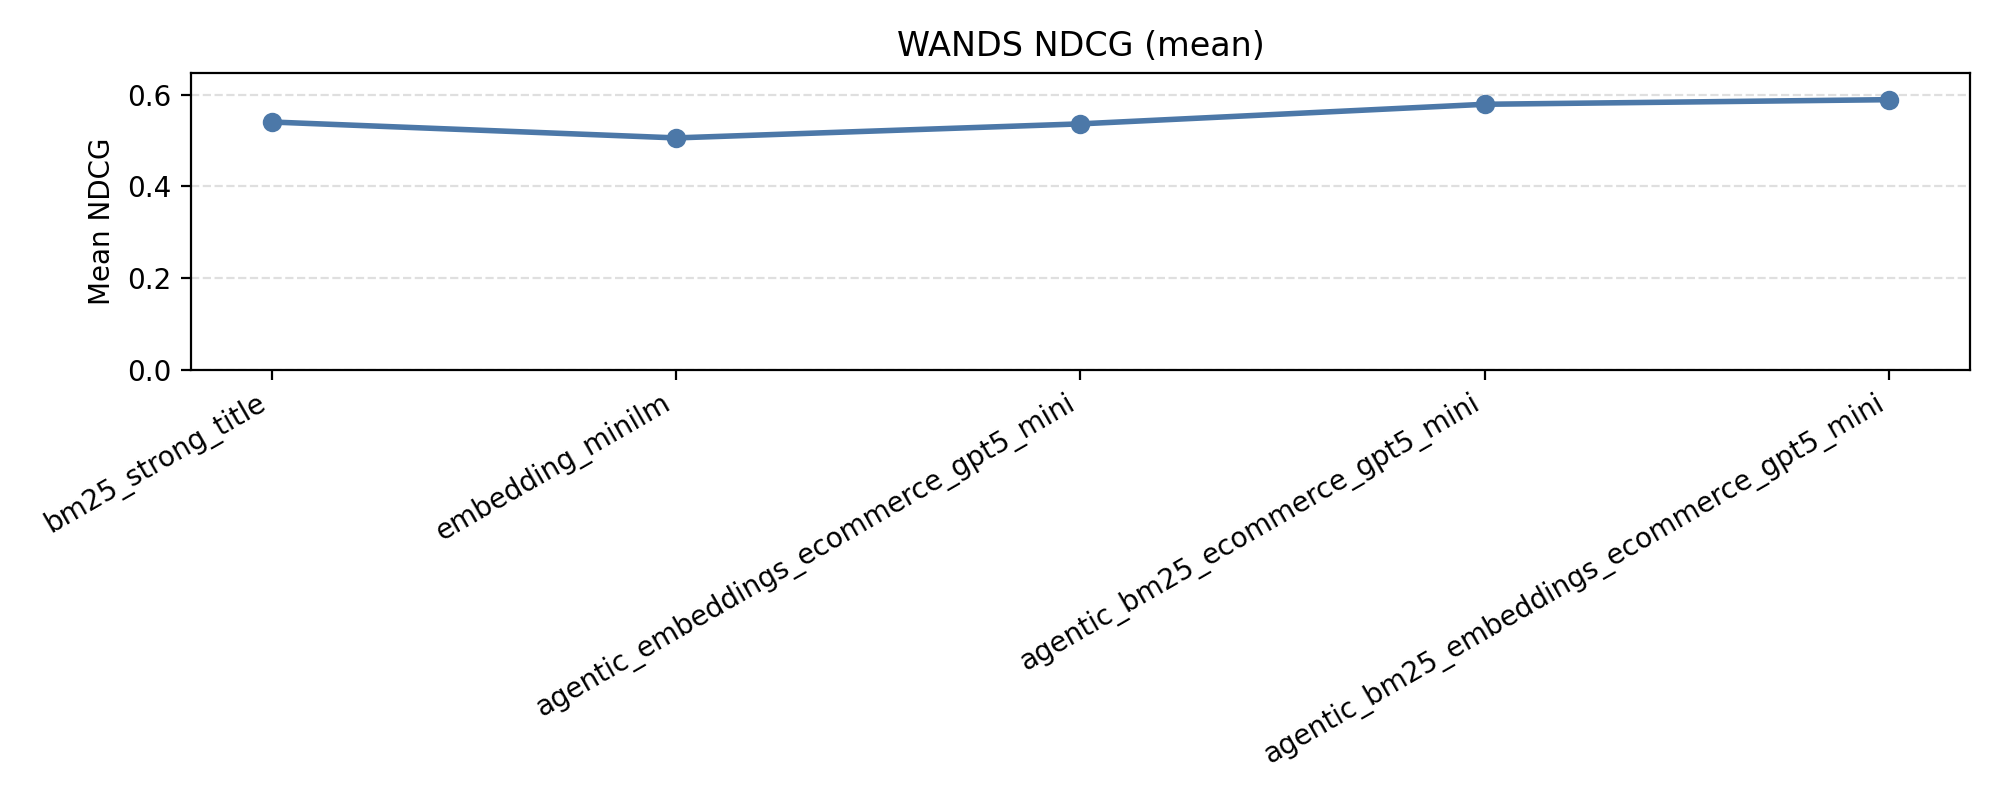
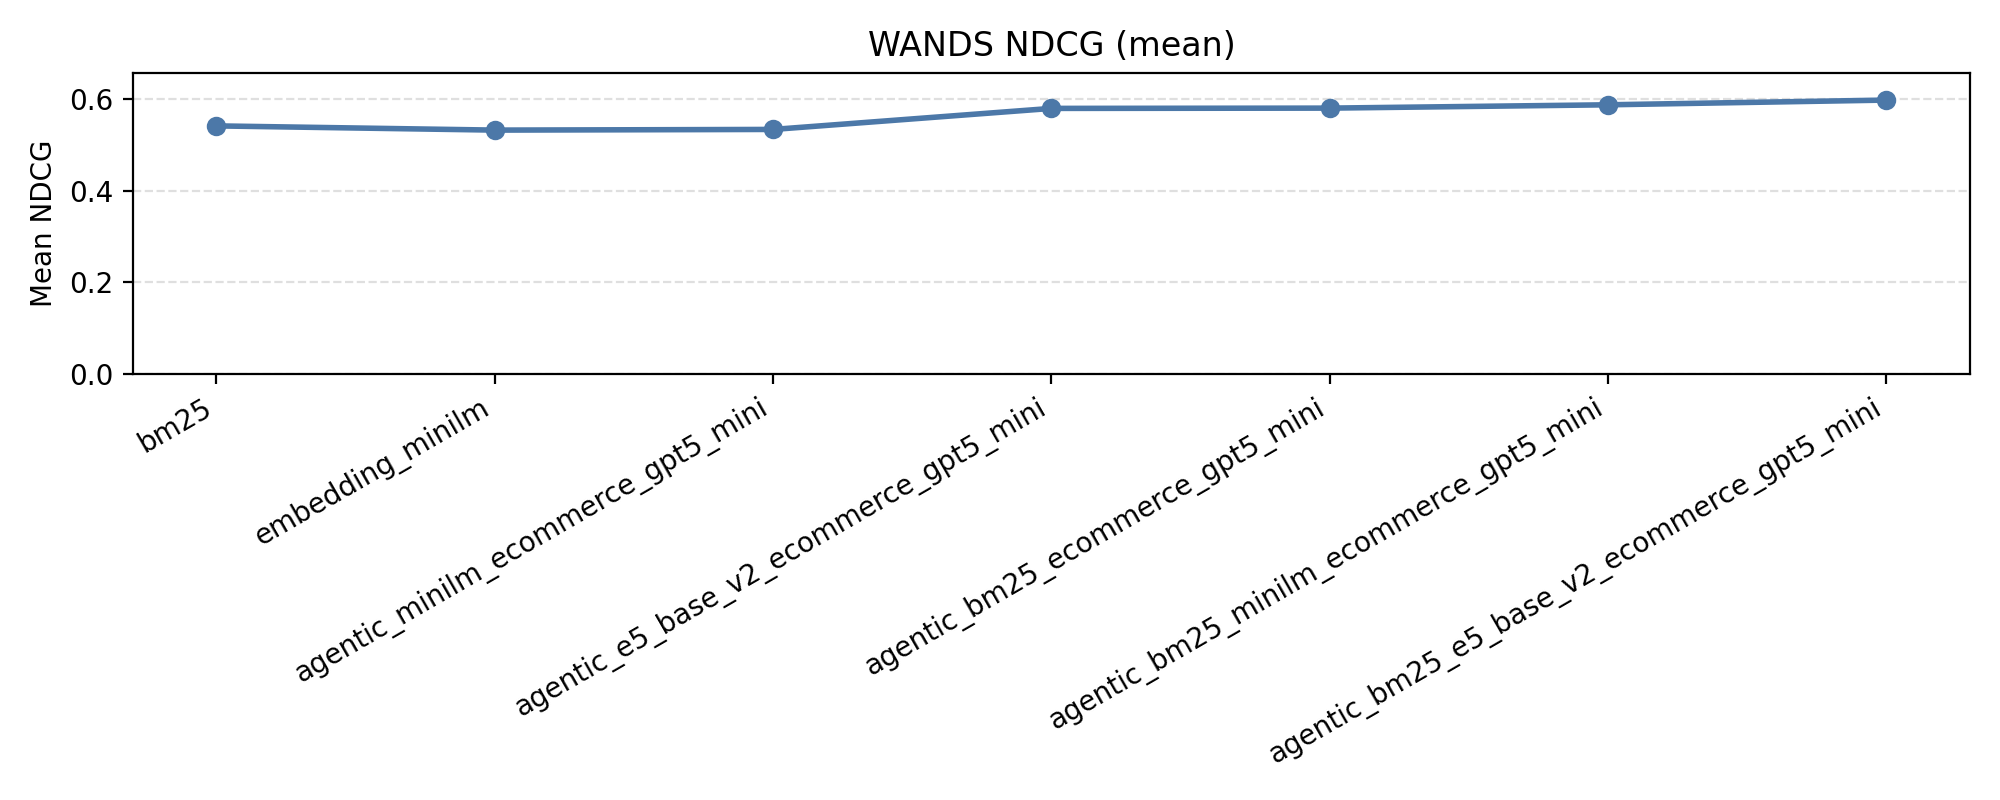
Refresh e-commerce results tables
Update ESCI/WANDS tables and plots from results.csv.

diff --git a/scripts/plot_results.py b/scripts/plot_results.py
@@ -8,7 +8,7 @@ from pathlib import Path
 import matplotlib.pyplot as plt
 
 
-BASELINES = ["bm25_strong_title", "embedding_minilm"]
+BASELINES = ["bm25", "bm25_strong_title", "embedding_minilm"]
 DATASETS = ["esci", "wands"]
 
 

diff --git a/README.md b/README.md
@@ -8,12 +8,13 @@ ESCI (baselines first, agentic sorted by NDCG ascending):
 
 | strategy | model | mean | median |
 |---|---|---|---|
-| bm25_strong_title | n/a | 0.2895 | 0.1707 |
-| embedding_minilm | n/a | 0.2304 | 0.0854 |
-| agentic_embeddings_ecommerce_gpt5_mini | gpt-5-mini | 0.2957 | 0.1863 |
-| agentic_bm25_ecommerce_gpt5_mini | gpt-5-mini | 0.3807 | 0.3414 |
-| agentic_bm25_ecommerce | gpt-5 | 0.3838 | 0.4268 |
-| agentic_bm25_embeddings_ecommerce_gpt5_mini | gpt-5-mini | 0.3996 | 0.3510 |
+| bm25 | n/a | 0.2895 | 0.1707 |
+| embedding_minilm | n/a | 0.2723 | 0.1552 |
+| agentic_minilm_ecommerce_gpt5_mini | gpt-5-mini | 0.2952 | 0.1749 |
+| agentic_e5_base_v2_ecommerce_gpt5_mini | gpt-5-mini | 0.3569 | 0.3399 |
+| agentic_bm25_ecommerce_gpt5_mini | gpt-5-mini | 0.3777 | 0.3414 |
+| agentic_bm25_minilm_ecommerce_gpt5_mini | gpt-5-mini | 0.3958 | 0.3414 |
+| agentic_bm25_e5_base_v2_ecommerce_gpt5_mini | gpt-5-mini | 0.4152 | 0.3794 |
 
 ![ESCI NDCG plot](assets/esci_ndcg.png)
 
@@ -21,11 +22,13 @@ WANDS (baselines first, agentic sorted by NDCG ascending):
 
 | strategy | model | mean | median |
 |---|---|---|---|
-| bm25_strong_title | n/a | 0.5408 | 0.4746 |
-| embedding_minilm | n/a | 0.5060 | 0.4083 |
-| agentic_embeddings_ecommerce_gpt5_mini | gpt-5-mini | 0.5367 | 0.4939 |
+| bm25 | n/a | 0.5408 | 0.4746 |
+| embedding_minilm | n/a | 0.5316 | 0.4779 |
+| agentic_minilm_ecommerce_gpt5_mini | gpt-5-mini | 0.5330 | 0.4874 |
+| agentic_e5_base_v2_ecommerce_gpt5_mini | gpt-5-mini | 0.5789 | 0.5609 |
 | agentic_bm25_ecommerce_gpt5_mini | gpt-5-mini | 0.5795 | 0.5609 |
-| agentic_bm25_embeddings_ecommerce_gpt5_mini | gpt-5-mini | 0.5895 | 0.5609 |
+| agentic_bm25_minilm_ecommerce_gpt5_mini | gpt-5-mini | 0.5867 | 0.5609 |
+| agentic_bm25_e5_base_v2_ecommerce_gpt5_mini | gpt-5-mini | 0.5970 | 0.5609 |
 
 ![WANDS NDCG plot](assets/wands_ndcg.png)
 
